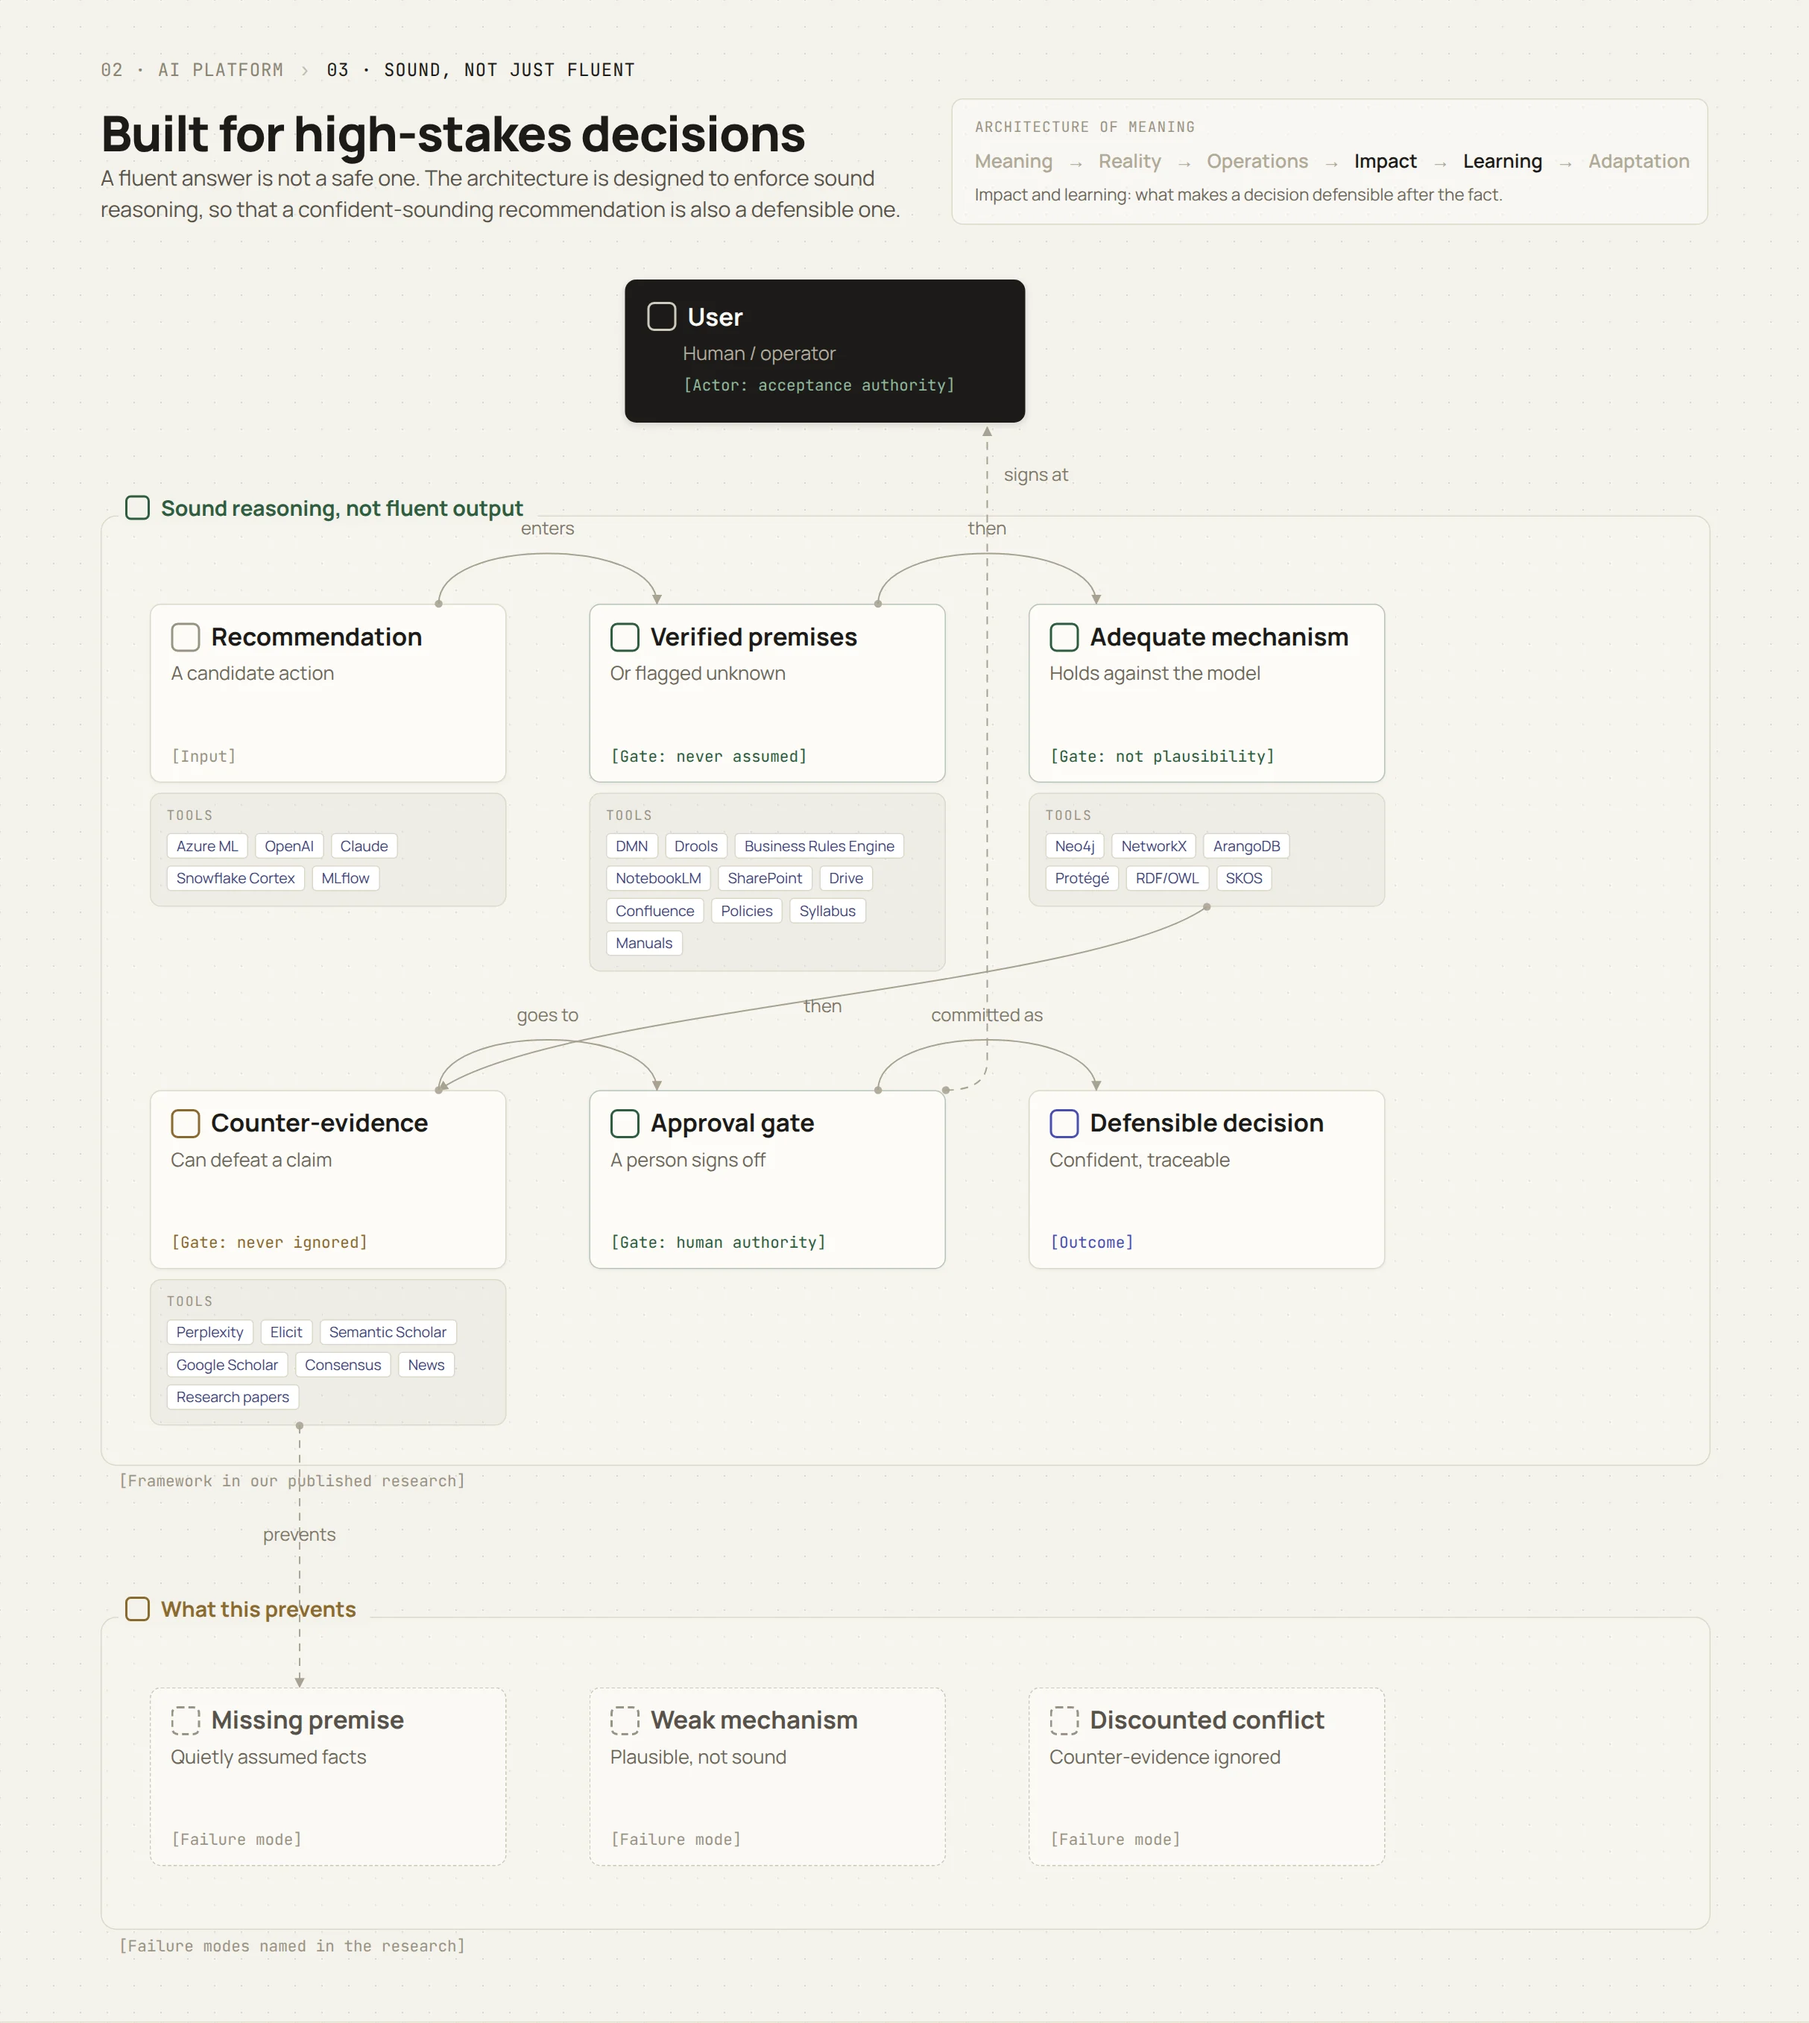
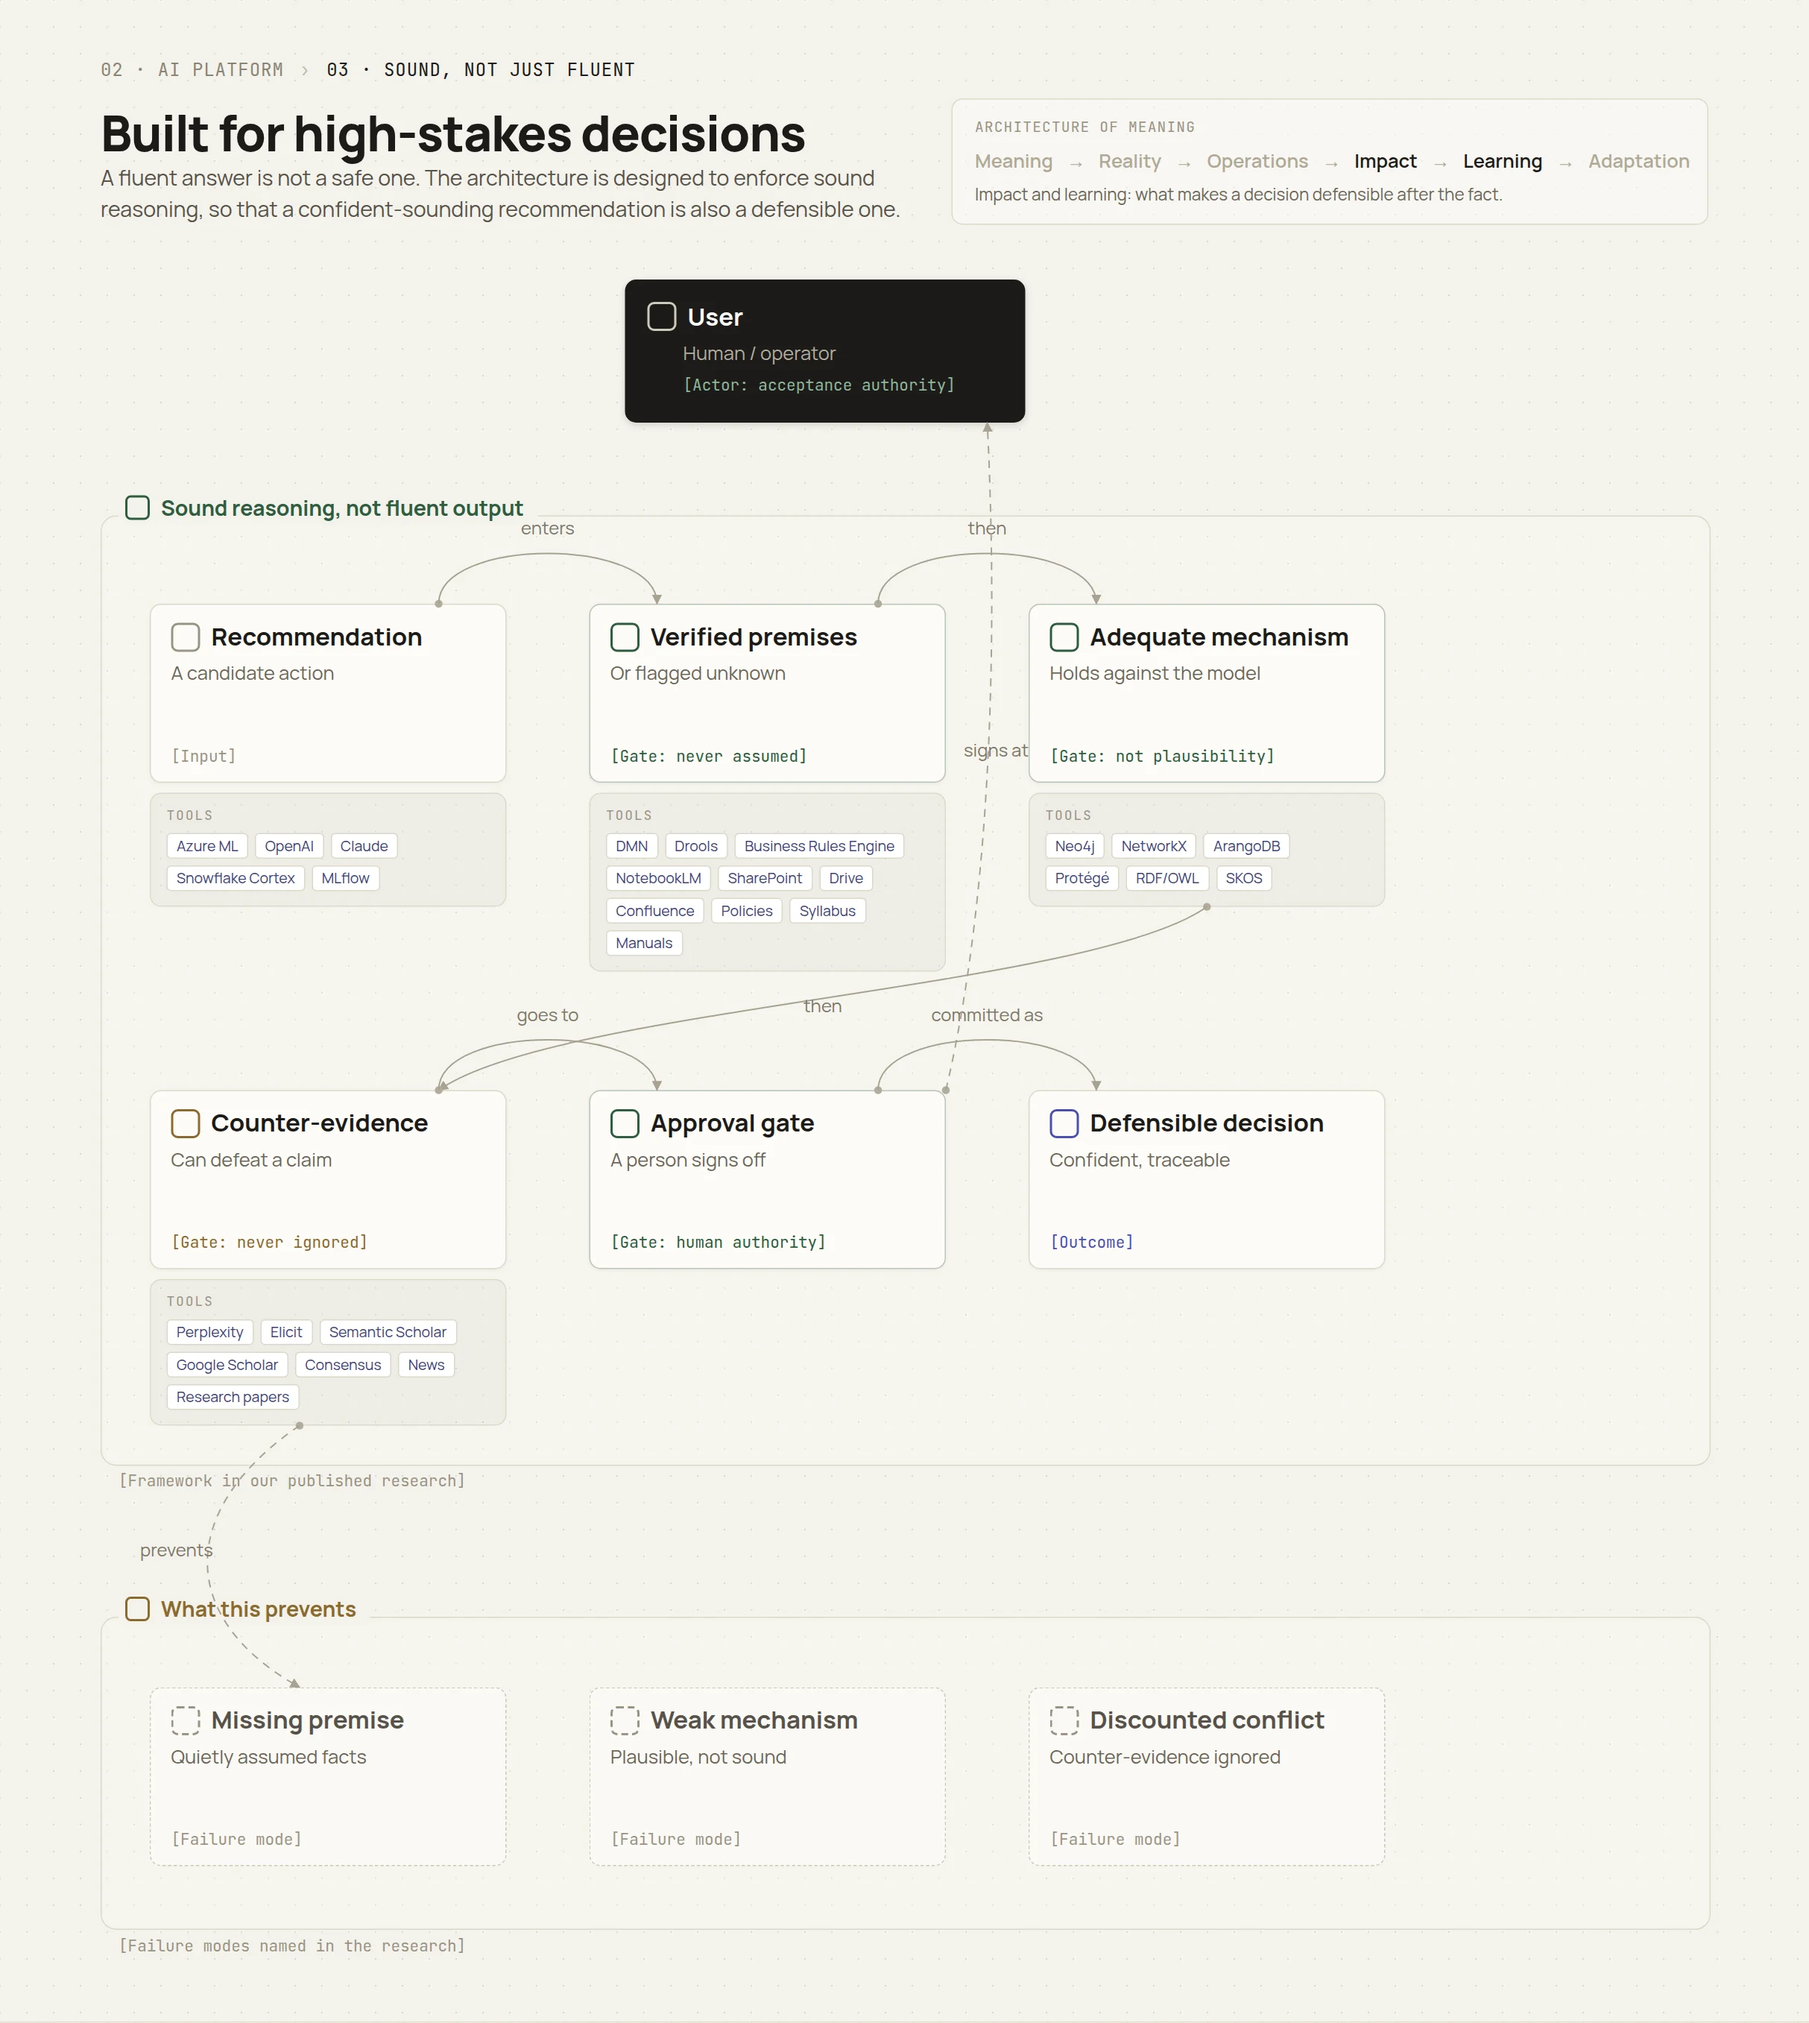
Release 4: R&D profiles without frames, curved AI Platform connectors
- R&D "Research profiles": strip top frame, cell bottom frames and the dividers
  between the three cells removed; column positions and hover state unchanged
- AI Platform "Built for high-stakes decisions" (ai-platform-03): the two straight
  connectors, "signs at" and "prevents", re-rendered with the generator's existing
  bow parameter; the other five connectors, anchors, labels, dash, colour and
  stroke width unchanged
- assets/site.css and diagrams/ai-platform-03.webp only; no HTML or JavaScript change
- Diagram keeps its exact pixel size 2427x2714; re-rendering rasterises the whole
  image, so it is not byte-identical outside the two connectors
- Parent / rollback: 6263e9f

Source: proba_2026-09-07_00-16_R4-candidate/deploy (49 files, manifest-verified)

Claude-Session: https://claude.ai/code/session_01H867tEoKbPTPL81FjpucWw

diff --git a/assets/site.css b/assets/site.css
@@ -566,10 +566,10 @@ html:not(.is-home){scroll-snap-type:none}
 #rnd .case:hover .plinks a{color:var(--gold2)}
 #rnd .case:hover .plinks a:hover{border-bottom-color:var(--gold2)}
 #rnd .profstrip{display:grid;grid-template-columns:repeat(3,minmax(0,1fr));
-  gap:0;margin-top:30px;border-top:2px solid var(--ink)}
-#rnd .prof{display:block;padding:26px 24px 26px 0;border-bottom:2px solid var(--ink);
+  gap:0;margin-top:30px}
+#rnd .prof{display:block;padding:26px 24px 26px 0;
   text-decoration:none;color:inherit;transition:.25s}
-#rnd .prof+.prof{border-left:2px solid var(--ink);padding-left:24px}
+#rnd .prof+.prof{padding-left:24px}
 #rnd .prof:hover{background:var(--ink);color:var(--bg);padding-left:24px;padding-right:24px}
 #rnd .prof .pk{display:block;font-family:'Archivo',sans-serif;font-weight:700;font-size:.7rem;
   letter-spacing:.14em;text-transform:uppercase;color:var(--faint)}
